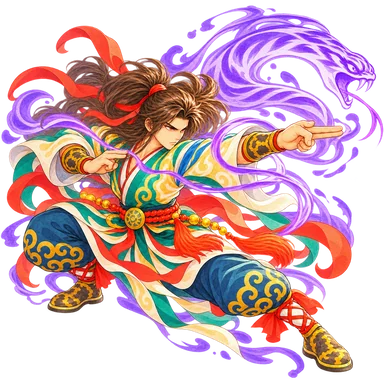
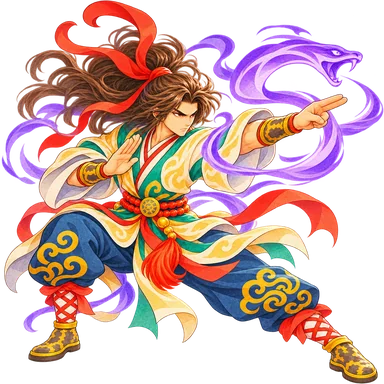
Cartas de la Serpiente completas

diff --git a/docs/arte/prompts.md b/docs/arte/prompts.md
@@ -22,10 +22,10 @@ claro, color saturado y mucho aire.
 
 ## Resumen: qué está y qué falta
 
-- **Falta (18):** ilustraciones de las cartas de los caminos Serpiente y Grulla, justo abajo en «Para generar ahora», un prompt por imagen.
+- **Falta (10):** ilustraciones de las cartas del camino Grulla, justo abajo en «Para generar ahora», un prompt por imagen.
 - **Está todo lo demás:** enemigos de las 3 etapas (incluidos qilin y Músico del Guqin), héroe, NPC, fondos y mapas
   de las 3 etapas, sellos del mapa, efectos, rollo, pantallas, logo, 6 íconos, 5 marcos de carta y
-  28 ilustraciones de cartas (el camino Tigre, completo). El detalle está en «Estado», más abajo.
+  37 ilustraciones de cartas (los caminos Tigre y Serpiente, completos). El detalle está en «Estado», más abajo.
 
 ## Paleta de referencia
 
@@ -44,171 +44,15 @@ claro, color saturado y mucho aire.
 
 # Para generar ahora
 
-Faltan **18 ilustraciones de cartas** (las de los caminos Serpiente y Grulla), carpeta `assets/art/cards/`. Ninguna es recoloreo. La carta muestra su ilustración apenas existe `cards/<id>.webp` (sin ella, el hanzi de marca de agua), así que cada una se integra sola y se pueden pasar de a varias, en cualquier orden. Las 28 que ya están sirven de referencia de estilo.
+Faltan **10 ilustraciones de cartas** (las del camino Grulla), carpeta `assets/art/cards/`. Ninguna es recoloreo. La carta muestra su ilustración apenas existe `cards/<id>.webp` (sin ella, el hanzi de marca de agua), así que cada una se integra sola y se pueden pasar de a varias, en cualquier orden. Las 37 que ya están sirven de referencia de estilo.
 
 Cada bloque gris es **una imagen**: copialo, pegalo en ChatGPT y guardá el PNG con el nombre del título. El color de la estela es el del tipo de la carta.
-
-## Camino Serpiente
-
-> **Por qué estos prompts son más largos:** con las técnicas «enroscadas», ChatGPT dobla brazos y torso como si fueran de goma y deforma los dedos. Por eso cada prompt pide una pose humana estable, una forma de mano simple (palma plana o puño) con las dos manos a la vista, y deja todo lo enroscado a un espíritu de serpiente de tinta separado del cuerpo. También describe al héroe para que salga el mismo de las cartas que ya están. Si igual sale una mano mal, en la misma conversación pedí: *«Same image, fix only the hands: five fingers each, simple flat palm, fully visible»*.
-
-### 1. `she_chan_shen.png` — Serpiente enroscada 蛇缠身
-
-```
-Create ONE single image. Start immediately, without asking questions.
-
-Create a SQUARE image (1:1 aspect ratio, 1024×1024), PNG with a fully transparent background (real alpha channel, no white, paper or checkerboard background).
-
-Small square illustration of a kung fu move on a transparent background. The hero: one young martial artist with long wild brown hair tied with a red ribbon, cream robe with jade and vermilion sashes, deep blue trousers with gold cloud patterns, gold wrist guards. Full body, three-quarter side view, the whole figure inside the frame, clear silhouette readable at small size.
-The move: standing in a stable low horse stance, the front forearm raised upright in front of the chest with the open palm turned outward to deflect a blow, the rear hand held open beside the hip, calm and rooted.
-ANATOMY (most important, check it before finishing): exactly one person with two arms, two legs and two hands; every visible hand has five fingers with normal joints, drawn in a simple readable shape (flat open palms with the fingers together and the thumb visible); both hands are fully visible, apart from the body and from each other, never hidden behind the torso, never crossed or tangled; arms and legs keep normal human length and bend only at shoulders, elbows, wrists, hips and knees; the torso turns at most a quarter turn and the head turns with the shoulders, no twisted neck or spine; no extra, missing, merged or rubbery boneless limbs.
-The snake is NOT in the body: the human pose stays natural, stable and anatomically correct. The coiling is shown only by a separate translucent ink serpent spirit in cobalt blue (#3E7BE0) that coils in a wide spiral around the whole figure like a protective shield; it never touches, wraps or hides the hands.
-Style: vibrant modern Chinese ink-and-watercolor illustration, bright daylight, warm rice-paper
-cream tones (#F6EEDC) on the figure only, fully transparent background, saturated accents of vermilion (#E8453C), jade green (#1FA38A), cobalt blue
-(#3E7BE0), gold (#E59A12) and violet (#9B5DE5), soft color gradients and tonal shifts, clean
-confident brush strokes, flat shading with watercolor bleeds, playful and energetic mood,
-high readability on a small phone screen. NOT dark, NOT gloomy, NOT grim, no black or brown
-backgrounds, no photorealism, no text, no watermark, no deformed hands, no extra fingers.
-```
-
-### 2. `jin_she.png` — Serpiente dorada 金蛇
-
-```
-Create ONE single image. Start immediately, without asking questions.
-
-Create a SQUARE image (1:1 aspect ratio, 1024×1024), PNG with a fully transparent background (real alpha channel, no white, paper or checkerboard background).
-
-Small square illustration of a kung fu move on a transparent background. The hero: one young martial artist with long wild brown hair tied with a red ribbon, cream robe with jade and vermilion sashes, deep blue trousers with gold cloud patterns, gold wrist guards. Full body, three-quarter side view, the whole figure inside the frame, clear silhouette readable at small size.
-The move: stepping forward into a long bow stance and throwing a straight punch, the front arm fully extended at shoulder height, the rear fist pulled back at the hip.
-ANATOMY (most important, check it before finishing): exactly one person with two arms, two legs and two hands; every visible hand has five fingers with normal joints, drawn in a simple readable shape (two tight closed fists, knuckles clearly drawn, thumb folded over the fingers); both hands are fully visible, apart from the body and from each other, never hidden behind the torso, never crossed or tangled; arms and legs keep normal human length and bend only at shoulders, elbows, wrists, hips and knees; the torso turns at most a quarter turn and the head turns with the shoulders, no twisted neck or spine; no extra, missing, merged or rubbery boneless limbs.
-The snake is NOT in the body: the human pose stays natural, stable and anatomically correct. The coiling is shown only by a separate translucent ink serpent spirit in vermilion (#E8453C) that spirals forward along the punching arm like a corkscrew, with a golden glint on its scales, ending in a small serpent head just past the fist; it never touches, wraps or hides the hands.
-Style: vibrant modern Chinese ink-and-watercolor illustration, bright daylight, warm rice-paper
-cream tones (#F6EEDC) on the figure only, fully transparent background, saturated accents of vermilion (#E8453C), jade green (#1FA38A), cobalt blue
-(#3E7BE0), gold (#E59A12) and violet (#9B5DE5), soft color gradients and tonal shifts, clean
-confident brush strokes, flat shading with watercolor bleeds, playful and energetic mood,
-high readability on a small phone screen. NOT dark, NOT gloomy, NOT grim, no black or brown
-backgrounds, no photorealism, no text, no watermark, no deformed hands, no extra fingers.
-```
-
-### 3. `she_wei.png` — Cola de serpiente 蛇尾
-
-```
-Create ONE single image. Start immediately, without asking questions.
-
-Create a SQUARE image (1:1 aspect ratio, 1024×1024), PNG with a fully transparent background (real alpha channel, no white, paper or checkerboard background).
-
-Small square illustration of a kung fu move on a transparent background. The hero: one young martial artist with long wild brown hair tied with a red ribbon, cream robe with jade and vermilion sashes, deep blue trousers with gold cloud patterns, gold wrist guards. Full body, three-quarter side view, the whole figure inside the frame, clear silhouette readable at small size.
-The move: dropping into a low crouch on the bent support leg while the other leg stretches out straight and sweeps close to the ground, heel leading; the front hand rests open on the bent knee and the other arm reaches back for balance.
-ANATOMY (most important, check it before finishing): exactly one person with two arms, two legs and two hands; every visible hand has five fingers with normal joints, drawn in a simple readable shape (flat open palms with the fingers together and the thumb visible); both hands are fully visible, apart from the body and from each other, never hidden behind the torso, never crossed or tangled; arms and legs keep normal human length and bend only at shoulders, elbows, wrists, hips and knees; the torso turns at most a quarter turn and the head turns with the shoulders, no twisted neck or spine; no extra, missing, merged or rubbery boneless limbs.
-The snake is NOT in the body: the human pose stays natural, stable and anatomically correct. The coiling is shown only by a separate translucent ink serpent spirit in gold (#E59A12) that trails behind the sweeping heel along the ground in a long S curve, like a snake's tail; it never touches, wraps or hides the hands.
-Style: vibrant modern Chinese ink-and-watercolor illustration, bright daylight, warm rice-paper
-cream tones (#F6EEDC) on the figure only, fully transparent background, saturated accents of vermilion (#E8453C), jade green (#1FA38A), cobalt blue
-(#3E7BE0), gold (#E59A12) and violet (#9B5DE5), soft color gradients and tonal shifts, clean
-confident brush strokes, flat shading with watercolor bleeds, playful and energetic mood,
-high readability on a small phone screen. NOT dark, NOT gloomy, NOT grim, no black or brown
-backgrounds, no photorealism, no text, no watermark, no deformed hands, no extra fingers.
-```
-
-### 4. `she_shan.png` — Serpiente que se escurre 蛇闪
-
-```
-Create ONE single image. Start immediately, without asking questions.
-
-Create a SQUARE image (1:1 aspect ratio, 1024×1024), PNG with a fully transparent background (real alpha channel, no white, paper or checkerboard background).
-
-Small square illustration of a kung fu move on a transparent background. The hero: one young martial artist with long wild brown hair tied with a red ribbon, cream robe with jade and vermilion sashes, deep blue trousers with gold cloud patterns, gold wrist guards. Full body, three-quarter side view, the whole figure inside the frame, clear silhouette readable at small size.
-The move: taking a light, balanced sidestep out of the way of a strike, upper body leaning slightly to one side, both open hands raised in front of the chest ready to guard.
-ANATOMY (most important, check it before finishing): exactly one person with two arms, two legs and two hands; every visible hand has five fingers with normal joints, drawn in a simple readable shape (flat open palms with the fingers together and the thumb visible); both hands are fully visible, apart from the body and from each other, never hidden behind the torso, never crossed or tangled; arms and legs keep normal human length and bend only at shoulders, elbows, wrists, hips and knees; the torso turns at most a quarter turn and the head turns with the shoulders, no twisted neck or spine; no extra, missing, merged or rubbery boneless limbs.
-The snake is NOT in the body: the human pose stays natural, stable and anatomically correct. The coiling is shown only by a separate translucent ink serpent spirit in jade green (#1FA38A) that draws an S curve along the path of the sidestep, showing where the body slipped away; it never touches, wraps or hides the hands.
-Style: vibrant modern Chinese ink-and-watercolor illustration, bright daylight, warm rice-paper
-cream tones (#F6EEDC) on the figure only, fully transparent background, saturated accents of vermilion (#E8453C), jade green (#1FA38A), cobalt blue
-(#3E7BE0), gold (#E59A12) and violet (#9B5DE5), soft color gradients and tonal shifts, clean
-confident brush strokes, flat shading with watercolor bleeds, playful and energetic mood,
-high readability on a small phone screen. NOT dark, NOT gloomy, NOT grim, no black or brown
-backgrounds, no photorealism, no text, no watermark, no deformed hands, no extra fingers.
-```
-
-### 5. `she_hui_tou.png` — La serpiente vuelve la cabeza 蛇回头
-
-```
-Create ONE single image. Start immediately, without asking questions.
-
-Create a SQUARE image (1:1 aspect ratio, 1024×1024), PNG with a fully transparent background (real alpha channel, no white, paper or checkerboard background).
-
-Small square illustration of a kung fu move on a transparent background. The hero: one young martial artist with long wild brown hair tied with a red ribbon, cream robe with jade and vermilion sashes, deep blue trousers with gold cloud patterns, gold wrist guards. Full body, three-quarter side view, the whole figure inside the frame, clear silhouette readable at small size.
-The move: a turning strike: the figure has just pivoted on the balls of the feet, body and head now facing the same direction, one arm thrusting a palm strike forward at shoulder height, the other hand open in front of the chest; hair and robe still swinging from the turn.
-ANATOMY (most important, check it before finishing): exactly one person with two arms, two legs and two hands; every visible hand has five fingers with normal joints, drawn in a simple readable shape (flat open palms with the fingers together and the thumb visible, the striking wrist slightly bent back); both hands are fully visible, apart from the body and from each other, never hidden behind the torso, never crossed or tangled; arms and legs keep normal human length and bend only at shoulders, elbows, wrists, hips and knees; the torso turns at most a quarter turn and the head turns with the shoulders, no twisted neck or spine; no extra, missing, merged or rubbery boneless limbs.
-The snake is NOT in the body: the human pose stays natural, stable and anatomically correct. The coiling is shown only by a separate translucent ink serpent spirit in violet (#9B5DE5) that follows the turn in a half circle behind the figure and rises with its head beside the striking palm; it never touches, wraps or hides the hands.
-Style: vibrant modern Chinese ink-and-watercolor illustration, bright daylight, warm rice-paper
-cream tones (#F6EEDC) on the figure only, fully transparent background, saturated accents of vermilion (#E8453C), jade green (#1FA38A), cobalt blue
-(#3E7BE0), gold (#E59A12) and violet (#9B5DE5), soft color gradients and tonal shifts, clean
-confident brush strokes, flat shading with watercolor bleeds, playful and energetic mood,
-high readability on a small phone screen. NOT dark, NOT gloomy, NOT grim, no black or brown
-backgrounds, no photorealism, no text, no watermark, no deformed hands, no extra fingers.
-```
-
-### 6. `ling_she.png` — Serpiente ágil 灵蛇
-
-```
-Create ONE single image. Start immediately, without asking questions.
-
-Create a SQUARE image (1:1 aspect ratio, 1024×1024), PNG with a fully transparent background (real alpha channel, no white, paper or checkerboard background).
-
-Small square illustration of a kung fu move on a transparent background. The hero: one young martial artist with long wild brown hair tied with a red ribbon, cream robe with jade and vermilion sashes, deep blue trousers with gold cloud patterns, gold wrist guards. Full body, three-quarter side view, the whole figure inside the frame, clear silhouette readable at small size.
-The move: a light hopping front kick: the support leg slightly bent, up on the toes, the kicking leg snapping forward to waist height with the foot flexed, both arms open to the sides for balance.
-ANATOMY (most important, check it before finishing): exactly one person with two arms, two legs and two hands; every visible hand has five fingers with normal joints, drawn in a simple readable shape (flat open palms with the fingers together and the thumb visible); both hands are fully visible, apart from the body and from each other, never hidden behind the torso, never crossed or tangled; arms and legs keep normal human length and bend only at shoulders, elbows, wrists, hips and knees; the torso turns at most a quarter turn and the head turns with the shoulders, no twisted neck or spine; no extra, missing, merged or rubbery boneless limbs.
-The snake is NOT in the body: the human pose stays natural, stable and anatomically correct. The coiling is shown only by a separate translucent ink serpent spirit in gold (#E59A12) that springs upward in a quick zigzag from the ground to the kicking foot; it never touches, wraps or hides the hands.
-Style: vibrant modern Chinese ink-and-watercolor illustration, bright daylight, warm rice-paper
-cream tones (#F6EEDC) on the figure only, fully transparent background, saturated accents of vermilion (#E8453C), jade green (#1FA38A), cobalt blue
-(#3E7BE0), gold (#E59A12) and violet (#9B5DE5), soft color gradients and tonal shifts, clean
-confident brush strokes, flat shading with watercolor bleeds, playful and energetic mood,
-high readability on a small phone screen. NOT dark, NOT gloomy, NOT grim, no black or brown
-backgrounds, no photorealism, no text, no watermark, no deformed hands, no extra fingers.
-```
-
-### 7. `she_jiao.png` — Abrazo de la serpiente 蛇绞
-
-```
-Create ONE single image. Start immediately, without asking questions.
-
-Create a SQUARE image (1:1 aspect ratio, 1024×1024), PNG with a fully transparent background (real alpha channel, no white, paper or checkerboard background).
-
-Small square illustration of a kung fu move on a transparent background. The hero: one young martial artist with long wild brown hair tied with a red ribbon, cream robe with jade and vermilion sashes, deep blue trousers with gold cloud patterns, gold wrist guards. Full body, three-quarter side view, the whole figure inside the frame, clear silhouette readable at small size.
-The move: in a bow stance, the front hand presses down and forward at waist height, palm down, as if pinning an opponent's arm, while the rear hand pulls back to the hip as a closed fist; no opponent is drawn.
-ANATOMY (most important, check it before finishing): exactly one person with two arms, two legs and two hands; every visible hand has five fingers with normal joints, drawn in a simple readable shape (front hand a flat palm facing down with the fingers together; rear hand a closed fist with the thumb folded over); both hands are fully visible, apart from the body and from each other, never hidden behind the torso, never crossed or tangled; arms and legs keep normal human length and bend only at shoulders, elbows, wrists, hips and knees; the torso turns at most a quarter turn and the head turns with the shoulders, no twisted neck or spine; no extra, missing, merged or rubbery boneless limbs.
-The snake is NOT in the body: the human pose stays natural, stable and anatomically correct. The coiling is shown only by a separate translucent ink serpent spirit in violet (#9B5DE5) that loops twice in a tight spiral in the empty space just in front of the front palm, like a snare closing on an invisible arm; it never touches, wraps or hides the hands.
-Style: vibrant modern Chinese ink-and-watercolor illustration, bright daylight, warm rice-paper
-cream tones (#F6EEDC) on the figure only, fully transparent background, saturated accents of vermilion (#E8453C), jade green (#1FA38A), cobalt blue
-(#3E7BE0), gold (#E59A12) and violet (#9B5DE5), soft color gradients and tonal shifts, clean
-confident brush strokes, flat shading with watercolor bleeds, playful and energetic mood,
-high readability on a small phone screen. NOT dark, NOT gloomy, NOT grim, no black or brown
-backgrounds, no photorealism, no text, no watermark, no deformed hands, no extra fingers.
-```
-
-### 8. `she_pan.png` — Serpiente al acecho 蛇盘
-
-```
-Create ONE single image. Start immediately, without asking questions.
-
-Create a SQUARE image (1:1 aspect ratio, 1024×1024), PNG with a fully transparent background (real alpha channel, no white, paper or checkerboard background).
-
-Small square illustration of a kung fu move on a transparent background. The hero: one young martial artist with long wild brown hair tied with a red ribbon, cream robe with jade and vermilion sashes, deep blue trousers with gold cloud patterns, gold wrist guards. Full body, three-quarter side view, the whole figure inside the frame, clear silhouette readable at small size.
-The move: in a deep low stance with the weight sunk onto the back leg, knees bent, back straight, the front hand held open at chin height, the rear hand open below the front elbow guarding the body, eyes fixed forward, patient.
-ANATOMY (most important, check it before finishing): exactly one person with two arms, two legs and two hands; every visible hand has five fingers with normal joints, drawn in a simple readable shape (flat open palms with the fingers together and the thumb visible, palms facing forward); both hands are fully visible, apart from the body and from each other, never hidden behind the torso, never crossed or tangled; arms and legs keep normal human length and bend only at shoulders, elbows, wrists, hips and knees; the torso turns at most a quarter turn and the head turns with the shoulders, no twisted neck or spine; no extra, missing, merged or rubbery boneless limbs.
-The snake is NOT in the body: the human pose stays natural, stable and anatomically correct. The coiling is shown only by a separate translucent ink serpent spirit in cobalt blue (#3E7BE0) that lies coiled in a flat spiral on the ground under the figure's feet, its head raised and watching, ready to strike; it never touches, wraps or hides the hands.
-Style: vibrant modern Chinese ink-and-watercolor illustration, bright daylight, warm rice-paper
-cream tones (#F6EEDC) on the figure only, fully transparent background, saturated accents of vermilion (#E8453C), jade green (#1FA38A), cobalt blue
-(#3E7BE0), gold (#E59A12) and violet (#9B5DE5), soft color gradients and tonal shifts, clean
-confident brush strokes, flat shading with watercolor bleeds, playful and energetic mood,
-high readability on a small phone screen. NOT dark, NOT gloomy, NOT grim, no black or brown
-backgrounds, no photorealism, no text, no watermark, no deformed hands, no extra fingers.
-```
 
 ## Camino Grulla
 
 > **Mismo cuidado que con la Serpiente:** las alas y el equilibrio en una pata hacen que ChatGPT convierta los brazos en alas, agregue o funda piernas y deforme los dedos. Cada prompt pide brazos humanos con manga, las dos piernas completas aunque una esté levantada y una forma de mano simple a la vista. La grulla aparece solo como espíritu de tinta separado del cuerpo. Si sale una mano o una pierna mal, en la misma conversación pedí: *«Same image, fix only the hands and legs: five fingers each, two complete legs, fully visible»*.
 
-### 9. `he_chi.png` — Ala de grulla 鹤翅
+### 1. `he_chi.png` — Ala de grulla 鹤翅
 
 ```
 Create ONE single image. Start immediately, without asking questions.
@@ -227,7 +71,7 @@ high readability on a small phone screen. NOT dark, NOT gloomy, NOT grim, no bla
 backgrounds, no photorealism, no text, no watermark, no deformed hands, no extra fingers, no extra limbs.
 ```
 
-### 10. `du_li.png` — Grulla en una pata 独立
+### 2. `du_li.png` — Grulla en una pata 独立
 
 ```
 Create ONE single image. Start immediately, without asking questions.
@@ -246,7 +90,7 @@ high readability on a small phone screen. NOT dark, NOT gloomy, NOT grim, no bla
 backgrounds, no photorealism, no text, no watermark, no deformed hands, no extra fingers, no extra limbs.
 ```
 
-### 11. `he_zui.png` — Pico de grulla 鹤嘴
+### 3. `he_zui.png` — Pico de grulla 鹤嘴
 
 ```
 Create ONE single image. Start immediately, without asking questions.
@@ -265,7 +109,7 @@ high readability on a small phone screen. NOT dark, NOT gloomy, NOT grim, no bla
 backgrounds, no photorealism, no text, no watermark, no deformed hands, no extra fingers, no extra limbs.
 ```
 
-### 12. `he_wu.png` — Danza de la grulla 鹤舞
+### 4. `he_wu.png` — Danza de la grulla 鹤舞
 
 ```
 Create ONE single image. Start immediately, without asking questions.
@@ -284,7 +128,7 @@ high readability on a small phone screen. NOT dark, NOT gloomy, NOT grim, no bla
 backgrounds, no photorealism, no text, no watermark, no deformed hands, no extra fingers, no extra limbs.
 ```
 
-### 13. `he_xi.png` — Rodilla de grulla 鹤膝
+### 5. `he_xi.png` — Rodilla de grulla 鹤膝
 
 ```
 Create ONE single image. Start immediately, without asking questions.
@@ -303,7 +147,7 @@ high readability on a small phone screen. NOT dark, NOT gloomy, NOT grim, no bla
 backgrounds, no photorealism, no text, no watermark, no deformed hands, no extra fingers, no extra limbs.
 ```
 
-### 14. `he_ming.png` — Canto de la grulla 鹤鸣
+### 6. `he_ming.png` — Canto de la grulla 鹤鸣
 
 ```
 Create ONE single image. Start immediately, without asking questions.
@@ -322,7 +166,7 @@ high readability on a small phone screen. NOT dark, NOT gloomy, NOT grim, no bla
 backgrounds, no photorealism, no text, no watermark, no deformed hands, no extra fingers, no extra limbs.
 ```
 
-### 15. `he_ding.png` — Corona de la grulla 鹤顶
+### 7. `he_ding.png` — Corona de la grulla 鹤顶
 
 ```
 Create ONE single image. Start immediately, without asking questions.
@@ -341,7 +185,7 @@ high readability on a small phone screen. NOT dark, NOT gloomy, NOT grim, no bla
 backgrounds, no photorealism, no text, no watermark, no deformed hands, no extra fingers, no extra limbs.
 ```
 
-### 16. `bai_he_liang_chi.png` — La grulla blanca abre las alas 白鹤亮翅
+### 8. `bai_he_liang_chi.png` — La grulla blanca abre las alas 白鹤亮翅
 
 ```
 Create ONE single image. Start immediately, without asking questions.
@@ -360,7 +204,7 @@ high readability on a small phone screen. NOT dark, NOT gloomy, NOT grim, no bla
 backgrounds, no photorealism, no text, no watermark, no deformed hands, no extra fingers, no extra limbs.
 ```
 
-### 17. `he_zhuo.png` — Picotazo de la grulla 鹤啄
+### 9. `he_zhuo.png` — Picotazo de la grulla 鹤啄
 
 ```
 Create ONE single image. Start immediately, without asking questions.
@@ -379,7 +223,7 @@ high readability on a small phone screen. NOT dark, NOT gloomy, NOT grim, no bla
 backgrounds, no photorealism, no text, no watermark, no deformed hands, no extra fingers, no extra limbs.
 ```
 
-### 18. `he_mian.png` — La grulla duerme 鹤眠
+### 10. `he_mian.png` — La grulla duerme 鹤眠
 
 ```
 Create ONE single image. Start immediately, without asking questions.
@@ -448,7 +292,7 @@ backgrounds, no photorealism, no text, no watermark, no deformed hands, no extra
 |---|---|---|---|
 | Íconos | `assets/art/icons/` | 6 | ✅ |
 | Marcos por tipo | `assets/art/cards/` | 5 | ✅ |
-| Ilustraciones de cartas | `assets/art/cards/` | 46 | ✅ 28 · ⬜ 18 (Serpiente y Grulla) en «Para generar ahora» |
+| Ilustraciones de cartas | `assets/art/cards/` | 46 | ✅ 37 · ⬜ 10 (Grulla) en «Para generar ahora» |
 
 ---
 
@@ -1471,7 +1315,7 @@ high readability on a small phone screen. NOT dark, NOT gloomy, NOT grim, no bla
 backgrounds, no photorealism, no text, no watermark.
 ```
 
-#### Serpiente enroscada 蛇缠身 ⬜
+#### Serpiente enroscada 蛇缠身 ✅
 
 **Destino:** `assets/art/cards/she_chan_shen.png`, cuadrada (1024×1024), fondo transparente.
 
@@ -1492,7 +1336,7 @@ high readability on a small phone screen. NOT dark, NOT gloomy, NOT grim, no bla
 backgrounds, no photorealism, no text, no watermark, no deformed hands, no extra fingers.
 ```
 
-#### Serpiente dorada 金蛇 ⬜
+#### Serpiente dorada 金蛇 ✅
 
 **Destino:** `assets/art/cards/jin_she.png`, cuadrada (1024×1024), fondo transparente.
 
@@ -1513,7 +1357,7 @@ high readability on a small phone screen. NOT dark, NOT gloomy, NOT grim, no bla
 backgrounds, no photorealism, no text, no watermark, no deformed hands, no extra fingers.
 ```
 
-#### Cola de serpiente 蛇尾 ⬜
+#### Cola de serpiente 蛇尾 ✅
 
 **Destino:** `assets/art/cards/she_wei.png`, cuadrada (1024×1024), fondo transparente.
 
@@ -1534,7 +1378,7 @@ high readability on a small phone screen. NOT dark, NOT gloomy, NOT grim, no bla
 backgrounds, no photorealism, no text, no watermark, no deformed hands, no extra fingers.
 ```
 
-#### Serpiente que se escurre 蛇闪 ⬜
+#### Serpiente que se escurre 蛇闪 ✅
 
 **Destino:** `assets/art/cards/she_shan.png`, cuadrada (1024×1024), fondo transparente.
 
@@ -1555,7 +1399,7 @@ high readability on a small phone screen. NOT dark, NOT gloomy, NOT grim, no bla
 backgrounds, no photorealism, no text, no watermark, no deformed hands, no extra fingers.
 ```
 
-#### La serpiente vuelve la cabeza 蛇回头 ⬜
+#### La serpiente vuelve la cabeza 蛇回头 ✅
 
 **Destino:** `assets/art/cards/she_hui_tou.png`, cuadrada (1024×1024), fondo transparente.
 
@@ -1576,7 +1420,7 @@ high readability on a small phone screen. NOT dark, NOT gloomy, NOT grim, no bla
 backgrounds, no photorealism, no text, no watermark, no deformed hands, no extra fingers.
 ```
 
-#### Serpiente ágil 灵蛇 ⬜
+#### Serpiente ágil 灵蛇 ✅
 
 **Destino:** `assets/art/cards/ling_she.png`, cuadrada (1024×1024), fondo transparente.
 
@@ -1597,7 +1441,7 @@ high readability on a small phone screen. NOT dark, NOT gloomy, NOT grim, no bla
 backgrounds, no photorealism, no text, no watermark, no deformed hands, no extra fingers.
 ```
 
-#### Abrazo de la serpiente 蛇绞 ⬜
+#### Abrazo de la serpiente 蛇绞 ✅
 
 **Destino:** `assets/art/cards/she_jiao.png`, cuadrada (1024×1024), fondo transparente.
 
@@ -1618,7 +1462,7 @@ high readability on a small phone screen. NOT dark, NOT gloomy, NOT grim, no bla
 backgrounds, no photorealism, no text, no watermark, no deformed hands, no extra fingers.
 ```
 
-#### Serpiente al acecho 蛇盘 ⬜
+#### Serpiente al acecho 蛇盘 ✅
 
 **Destino:** `assets/art/cards/she_pan.png`, cuadrada (1024×1024), fondo transparente.
 

diff --git a/docs/arte/checklist.md b/docs/arte/checklist.md
@@ -2,7 +2,7 @@
 
 **Generado por `python3 tool/art_status.py`: no editar a mano.** Se vuelve a correr antes de pasar prompts y cada vez que llega arte.
 
-Total: 141 · ✅ 119 · 🎨 4 · ❌ 18
+Total: 141 · ✅ 127 · 🎨 4 · ❌ 10
 
 - ✅ propio: ya está, no se vuelve a pedir.
 - 🎨 recoloreo: existe, pero es otro enemigo teñido (`tool/recolor_enemies.py`). Arte propio lo reemplaza.
@@ -119,14 +119,14 @@ Total: 141 · ✅ 119 · 🎨 4 · ❌ 18
 | ✅ propio | `assets/art/cards/hu_dun.webp` | ilustración de hu_dun | hanzi de marca de agua | — |
 | ✅ propio | `assets/art/cards/she_xing_shou.webp` | ilustración de she_xing_shou | hanzi de marca de agua | — |
 | ✅ propio | `assets/art/cards/she_tu_xin.webp` | ilustración de she_tu_xin | hanzi de marca de agua | — |
-| ❌ falta | `assets/art/cards/she_chan_shen.webp` | ilustración de she_chan_shen | hanzi de marca de agua | no |
-| ❌ falta | `assets/art/cards/jin_she.webp` | ilustración de jin_she | hanzi de marca de agua | no |
-| ❌ falta | `assets/art/cards/she_wei.webp` | ilustración de she_wei | hanzi de marca de agua | no |
-| ❌ falta | `assets/art/cards/she_shan.webp` | ilustración de she_shan | hanzi de marca de agua | no |
-| ❌ falta | `assets/art/cards/she_hui_tou.webp` | ilustración de she_hui_tou | hanzi de marca de agua | no |
-| ❌ falta | `assets/art/cards/ling_she.webp` | ilustración de ling_she | hanzi de marca de agua | no |
-| ❌ falta | `assets/art/cards/she_jiao.webp` | ilustración de she_jiao | hanzi de marca de agua | no |
-| ❌ falta | `assets/art/cards/she_pan.webp` | ilustración de she_pan | hanzi de marca de agua | no |
+| ✅ propio | `assets/art/cards/she_chan_shen.webp` | ilustración de she_chan_shen | hanzi de marca de agua | — |
+| ✅ propio | `assets/art/cards/jin_she.webp` | ilustración de jin_she | hanzi de marca de agua | — |
+| ✅ propio | `assets/art/cards/she_wei.webp` | ilustración de she_wei | hanzi de marca de agua | — |
+| ✅ propio | `assets/art/cards/she_shan.webp` | ilustración de she_shan | hanzi de marca de agua | — |
+| ✅ propio | `assets/art/cards/she_hui_tou.webp` | ilustración de she_hui_tou | hanzi de marca de agua | — |
+| ✅ propio | `assets/art/cards/ling_she.webp` | ilustración de ling_she | hanzi de marca de agua | — |
+| ✅ propio | `assets/art/cards/she_jiao.webp` | ilustración de she_jiao | hanzi de marca de agua | — |
+| ✅ propio | `assets/art/cards/she_pan.webp` | ilustración de she_pan | hanzi de marca de agua | — |
 | ❌ falta | `assets/art/cards/he_chi.webp` | ilustración de he_chi | hanzi de marca de agua | no |
 | ❌ falta | `assets/art/cards/du_li.webp` | ilustración de du_li | hanzi de marca de agua | no |
 | ❌ falta | `assets/art/cards/he_zui.webp` | ilustración de he_zui | hanzi de marca de agua | no |

diff --git a/docs/arte/relevamiento.md b/docs/arte/relevamiento.md
@@ -46,7 +46,7 @@ Tramos (`_sceneFiles` en `widgets/stage_scene.dart`):
   - de concepto nuevo: `paper_crane` (Grulla de Papel), `opera_mask` (Ópera de las Mil Caras), `pixiu` (Pixiu), `flying_sword` (Espada Voladora), `wooden_ox` (Buey de Madera), `qilin` (Qilin) y `guqin_player` (Músico del Guqin).
 - **Mapa:** `map_node_stone` (textura de los sellos).
 - **UI:** `ui/logo` (menú), los 6 íconos de `icons/` (Aliento, Guardia, Estructura, desvío, desequilibrio y fuente, vía `GameIcon`) y los 5 marcos de `cards/` (uno por tipo de carta).
-- **Ilustraciones de cartas:** `gongbu_chongquan`, `mabu_chongquan`, `tan_tui`, `tui_zhang`, `mabu_jiada`, `xubu_liangzhang`, `ge_dang`, `an_zhang`, `deng_tui`, `ce_chuai`, `gongbu_tuizhang`, `pi_quan`, `shang_jia`, `ti_xi`, `tiao_xi`, `baoquan_li`, `hu_zhao`, `hu_pu`, `hu_bao_tou`, `hu_xiao`, `hu_wei`, `xia_shan_hu`, `hu_ya`, `hu_ben`, `e_hu_pu_shi`, `hu_dun`, `she_xing_shou` y `she_tu_xin` (las 16 comunes, las 10 del Tigre y 2 de la Serpiente). La carta busca `cards/<id>.webp`; si no está, muestra el hanzi de marca de agua.
+- **Ilustraciones de cartas:** `gongbu_chongquan`, `mabu_chongquan`, `tan_tui`, `tui_zhang`, `mabu_jiada`, `xubu_liangzhang`, `ge_dang`, `an_zhang`, `deng_tui`, `ce_chuai`, `gongbu_tuizhang`, `pi_quan`, `shang_jia`, `ti_xi`, `tiao_xi`, `baoquan_li`, `hu_zhao`, `hu_pu`, `hu_bao_tou`, `hu_xiao`, `hu_wei`, `xia_shan_hu`, `hu_ya`, `hu_ben`, `e_hu_pu_shi`, `hu_dun`, `she_xing_shou`, `she_tu_xin`, `she_chan_shen`, `jin_she`, `she_wei`, `she_shan`, `she_hui_tou`, `ling_she`, `she_jiao` y `she_pan` (las 16 comunes, las 10 del Tigre y las 10 de la Serpiente). La carta busca `cards/<id>.webp`; si no está, muestra el hanzi de marca de agua.
 
 ## Reserva de recoloreos
 
@@ -67,4 +67,4 @@ Ya no falta ninguno: todos los enemigos tienen arte propio o un recoloreo de la 
 
 ### 3. Ilustraciones de cartas
 
-- Faltan 18: las de los caminos (8 de la Serpiente y 10 de la Grulla), un prompt suelto por imagen en «Para generar ahora» de `prompts.md`. Se usan solas apenas llegan: `optimize_art.py` las deja en 384 px. Las de Serpiente y Grulla llevan reglas de anatomía (manos simples a la vista, pose estable, piernas completas; lo enroscado o las alas solo en un espíritu de tinta separado) porque ChatGPT deformaba dedos y cuerpos.
+- Faltan 10: las del camino Grulla, un prompt suelto por imagen en «Para generar ahora» de `prompts.md`. Se usan solas apenas llegan: `optimize_art.py` las deja en 384 px. Llevan reglas de anatomía (manos simples a la vista, pose estable, piernas completas; las alas solo en un espíritu de tinta separado) porque ChatGPT deformaba dedos y cuerpos; con esas reglas las de la Serpiente salieron bien.
